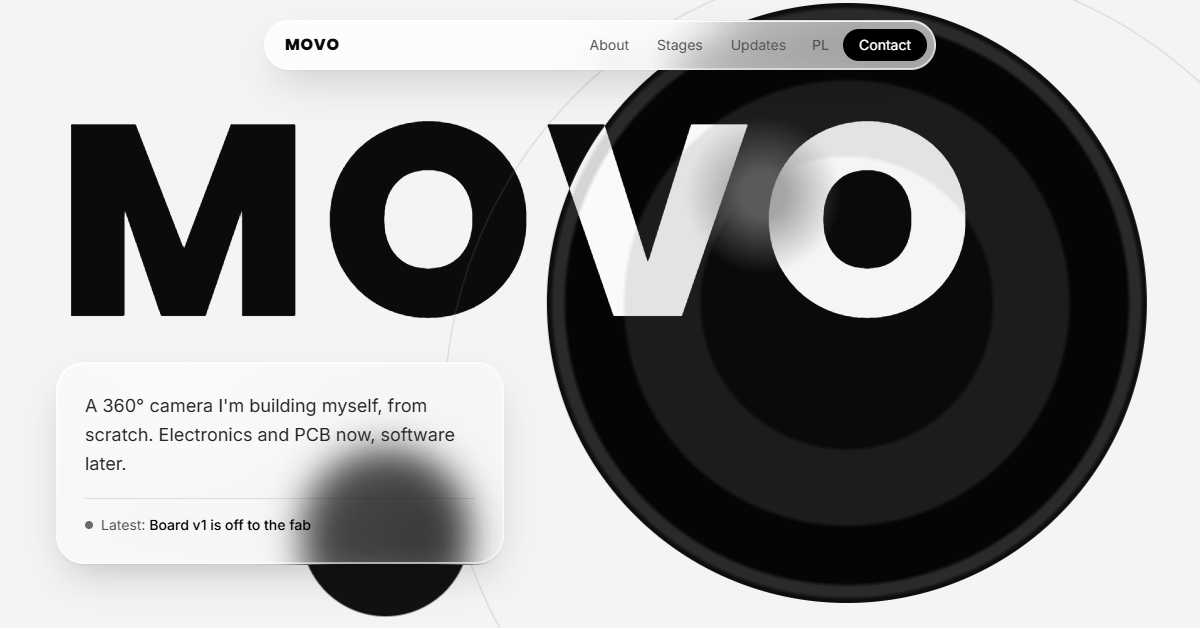
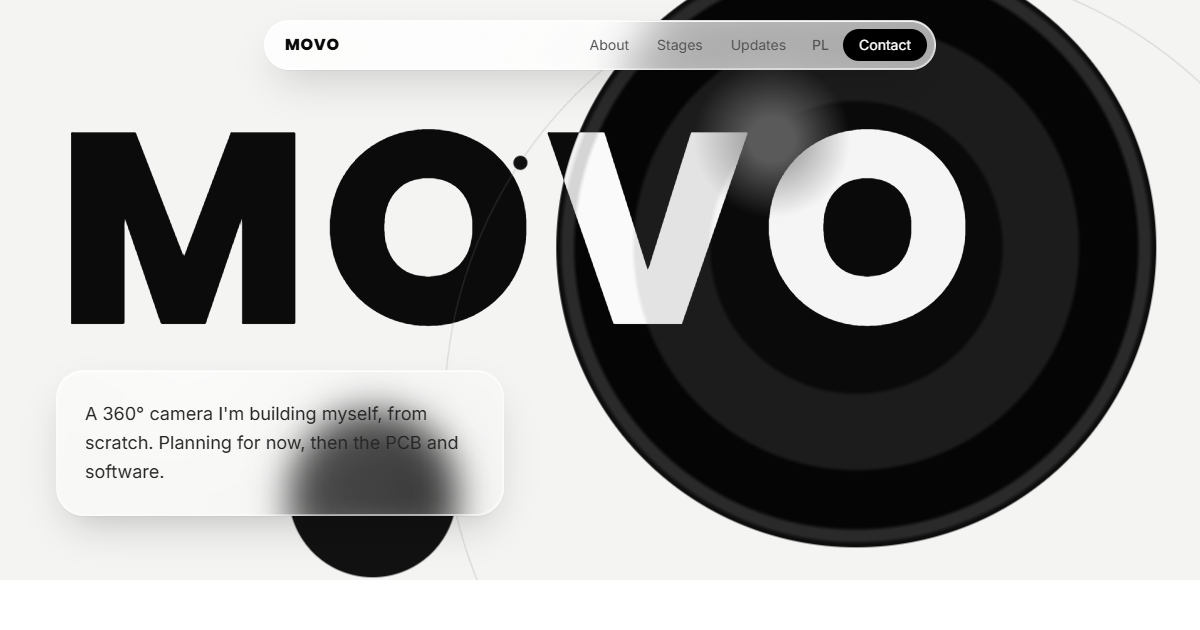
E-mail kontaktowy, etap: planowanie

diff --git a/index.html b/index.html
@@ -58,9 +58,9 @@
 
         <div class="reveal glass mt-8 max-w-md rounded-[28px] p-6 sm:p-7" style="transition-delay:120ms">
           <p data-i18n="hero.lead" class="text-lg leading-relaxed text-neutral-800">
-            A 360° camera I'm building myself, from scratch. Electronics and PCB now, software later.
+            A 360° camera I'm building myself, from scratch. Planning for now, then the PCB and software.
           </p>
-          <p class="mt-5 flex items-start gap-2 border-t border-black/10 pt-4 text-sm text-neutral-600">
+          <p data-latest-row class="mt-5 flex items-start gap-2 border-t border-black/10 pt-4 text-sm text-neutral-600">
             <span class="mt-1.5 inline-block h-2 w-2 shrink-0 animate-pulse rounded-full bg-black"></span>
             <span><span data-i18n="hero.latest">Latest:</span> <span data-latest class="font-medium text-black">…</span></span>
           </p>
@@ -103,20 +103,20 @@
         <p data-i18n="stages.lead" class="reveal mt-5 max-w-lg text-neutral-600">Build stages, roughly in order. The dots show what's already behind me.</p>
 
         <ol class="mt-14 grid md:grid-cols-5">
-          <li class="reveal relative border-l border-black pb-10 pl-8 md:border-l-0 md:border-t md:pb-0 md:pl-0 md:pr-6 md:pt-8">
-            <span class="absolute -left-[7px] top-0 h-3.5 w-3.5 rounded-full bg-black md:-top-[7px] md:left-0"></span>
-            <p data-i18n="st.done" class="text-xs font-medium uppercase tracking-wider text-neutral-500">done</p>
-            <h3 data-i18n="s1.t" class="mt-2 font-display text-xl font-semibold tracking-tight">Parts &amp; schematic</h3>
-            <p data-i18n="s1.d" class="mt-2 text-sm leading-relaxed text-neutral-600">Sensors, lenses, power. What connects to what.</p>
-          </li>
-          <li class="reveal relative border-l border-black/15 pb-10 pl-8 md:border-l-0 md:border-t md:pb-0 md:pl-0 md:pr-6 md:pt-8" style="transition-delay:80ms">
+          <li class="reveal relative border-l border-black/15 pb-10 pl-8 md:border-l-0 md:border-t md:pb-0 md:pl-0 md:pr-6 md:pt-8">
             <span class="absolute -left-[7px] top-0 grid h-3.5 w-3.5 place-items-center md:-top-[7px] md:left-0">
               <span class="absolute h-full w-full animate-ping rounded-full bg-black/30"></span>
               <span class="relative h-3.5 w-3.5 rounded-full border-[3px] border-black bg-white"></span>
             </span>
             <p data-i18n="st.now" class="text-xs font-medium uppercase tracking-wider text-black">now</p>
-            <h3 data-i18n="s2.t" class="mt-2 font-display text-xl font-semibold tracking-tight">PCB</h3>
-            <p data-i18n="s2.d" class="mt-2 text-sm leading-relaxed text-neutral-600">Layout, ordering, soldering the first version.</p>
+            <h3 data-i18n="s1.t" class="mt-2 font-display text-xl font-semibold tracking-tight">Planning</h3>
+            <p data-i18n="s1.d" class="mt-2 text-sm leading-relaxed text-neutral-600">Picking parts, the schematic, a plan for the whole thing.</p>
+          </li>
+          <li class="reveal relative border-l border-black/15 pb-10 pl-8 md:border-l-0 md:border-t md:pb-0 md:pl-0 md:pr-6 md:pt-8" style="transition-delay:80ms">
+            <span class="absolute -left-[7px] top-0 h-3.5 w-3.5 rounded-full border border-black/30 bg-[#f4f4f3] md:-top-[7px] md:left-0"></span>
+            <p data-i18n="st.later" class="text-xs font-medium uppercase tracking-wider text-neutral-400">later</p>
+            <h3 data-i18n="s2.t" class="mt-2 font-display text-xl font-semibold tracking-tight text-neutral-500">PCB</h3>
+            <p data-i18n="s2.d" class="mt-2 text-sm leading-relaxed text-neutral-500">Layout, ordering, soldering the first version.</p>
           </li>
           <li class="reveal relative border-l border-black/15 pb-10 pl-8 md:border-l-0 md:border-t md:pb-0 md:pl-0 md:pr-6 md:pt-8" style="transition-delay:160ms">
             <span class="absolute -left-[7px] top-0 h-3.5 w-3.5 rounded-full border border-black/30 bg-[#f4f4f3] md:-top-[7px] md:left-0"></span>
@@ -188,7 +188,7 @@
       <p data-i18n="contact.lead" class="text-neutral-400">Got a question, an idea, or a sensor you don't need?</p>
       <!-- ZMIEŃ: e-mail. Część przed @ w data-u, po @ w data-d.
            Adres składa skrypt, więc boty zbierające maile go nie widzą w kodzie. -->
-      <a data-mail data-u="movo.kontakt" data-d="example.com" href="#contact" class="mt-3 block break-all font-display text-3xl font-bold tracking-tight transition hover:text-neutral-400 sm:text-5xl">e-mail</a>
+      <a data-mail data-u="movo.contact" data-d="gmail.com" href="#contact" class="mt-3 block break-all font-display text-3xl font-bold tracking-tight transition hover:text-neutral-400 sm:text-5xl">e-mail</a>
 
       <!-- ZMIEŃ: linki do kont (usuń te, których nie masz) -->
       <ul class="mt-10 flex flex-wrap gap-2 text-sm">

diff --git a/i18n.js b/i18n.js
@@ -14,7 +14,7 @@
       "nav.updates": "Updates",
       "nav.contact": "Contact",
       "nav.back": "← back",
-      "hero.lead": "A 360° camera I'm building myself, from scratch. Electronics and PCB now, software later.",
+      "hero.lead": "A 360° camera I'm building myself, from scratch. Planning for now, then the PCB and software.",
       "hero.latest": "Latest:",
       "about.title": "Hi, I'm Ignacy.",
       "about.p1": "I'm 13 and I'm building a 360° camera from scratch.",
@@ -25,8 +25,8 @@
       "st.done": "done",
       "st.now": "now",
       "st.later": "later",
-      "s1.t": "Parts & schematic",
-      "s1.d": "Sensors, lenses, power. What connects to what.",
+      "s1.t": "Planning",
+      "s1.d": "Picking parts, the schematic, a plan for the whole thing.",
       "s2.t": "PCB",
       "s2.d": "Layout, ordering, soldering the first version.",
       "s3.t": "Bring-up",
@@ -64,7 +64,7 @@
       "nav.updates": "Postępy",
       "nav.contact": "Kontakt",
       "nav.back": "← wróć",
-      "hero.lead": "Kamera 360°, którą buduję sam, od zera. Teraz elektronika i PCB, potem software.",
+      "hero.lead": "Kamera 360°, którą buduję sam, od zera. Na razie planowanie, potem PCB i software.",
       "hero.latest": "Ostatnio:",
       "about.title": "Cześć, jestem Ignacy.",
       "about.p1": "Mam 13 lat i buduję od zera kamerę 360°.",
@@ -75,8 +75,8 @@
       "st.done": "zrobione",
       "st.now": "teraz",
       "st.later": "później",
-      "s1.t": "Części i schemat",
-      "s1.d": "Sensory, obiektywy, zasilanie. Co z czym się łączy.",
+      "s1.t": "Planowanie",
+      "s1.d": "Wybór części, schemat, plan całości.",
       "s2.t": "Płytka PCB",
       "s2.d": "Layout, zamówienie, lutowanie pierwszej wersji.",
       "s3.t": "Uruchomienie",

diff --git a/blog.html b/blog.html
@@ -48,7 +48,7 @@
 
   <footer class="bg-black px-4 py-10 text-white sm:px-6 lg:px-8">
     <div class="mx-auto flex max-w-6xl flex-wrap items-center justify-between gap-4 text-sm">
-      <a data-mail data-u="movo.kontakt" data-d="example.com" href="index.html#contact" class="font-display text-lg font-bold hover:text-neutral-400">e-mail</a>
+      <a data-mail data-u="movo.contact" data-d="gmail.com" href="index.html#contact" class="font-display text-lg font-bold hover:text-neutral-400">e-mail</a>
       <span class="text-xs text-neutral-500">© <span data-year></span> Ignacy · <span class="logo">MOVO</span></span>
     </div>
   </footer>

diff --git a/main.js b/main.js
@@ -109,7 +109,9 @@
       observe(c);
     });
     document.querySelectorAll("[data-post-count]").forEach((n) => (n.textContent = posts.length));
-    document.querySelectorAll("[data-latest]").forEach((n) => (n.textContent = posts[0] ? localized(posts[0]).title : "—"));
+    document.querySelectorAll("[data-latest]").forEach((n) => (n.textContent = posts[0] ? localized(posts[0]).title : ""));
+    // bez wpisów nie pokazujemy pustego „Ostatnio:”
+    document.querySelectorAll("[data-latest-row]").forEach((n) => n.classList.toggle("hidden", !posts.length));
   }
   if (needsPosts) {
     loadPosts()
